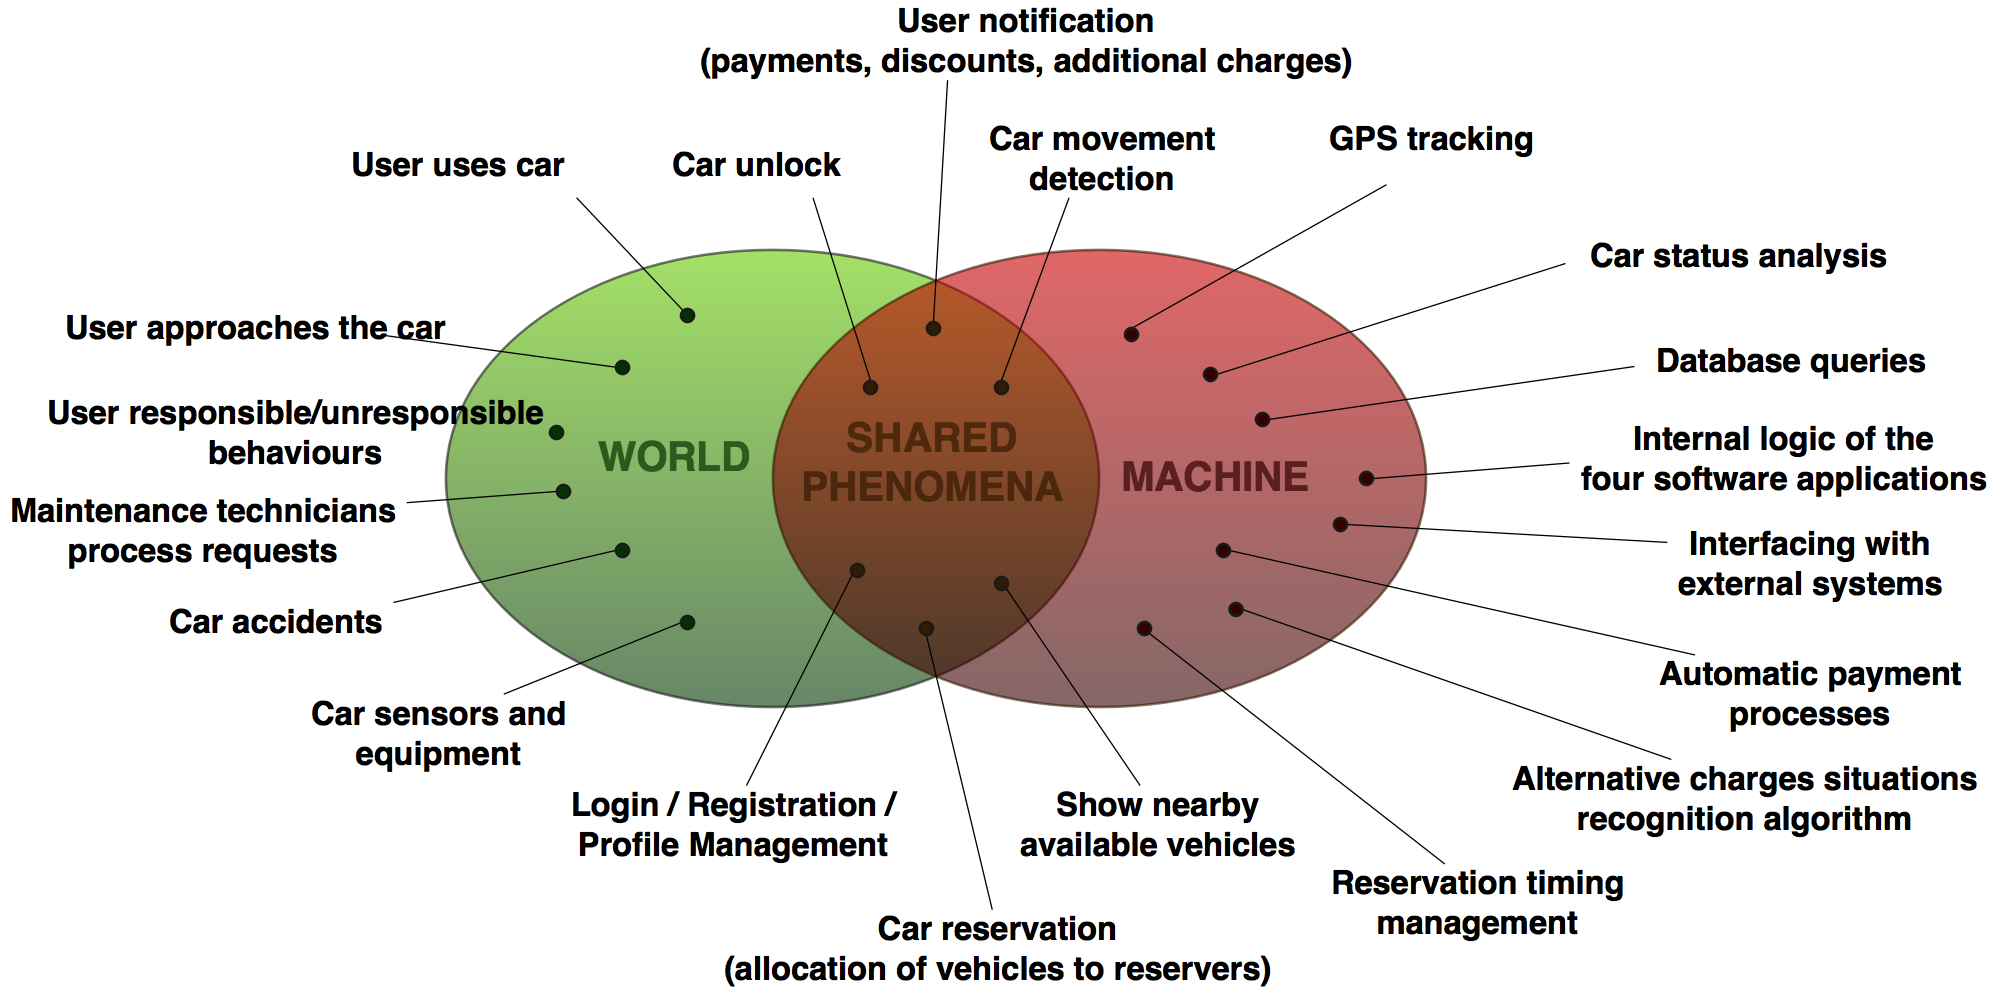
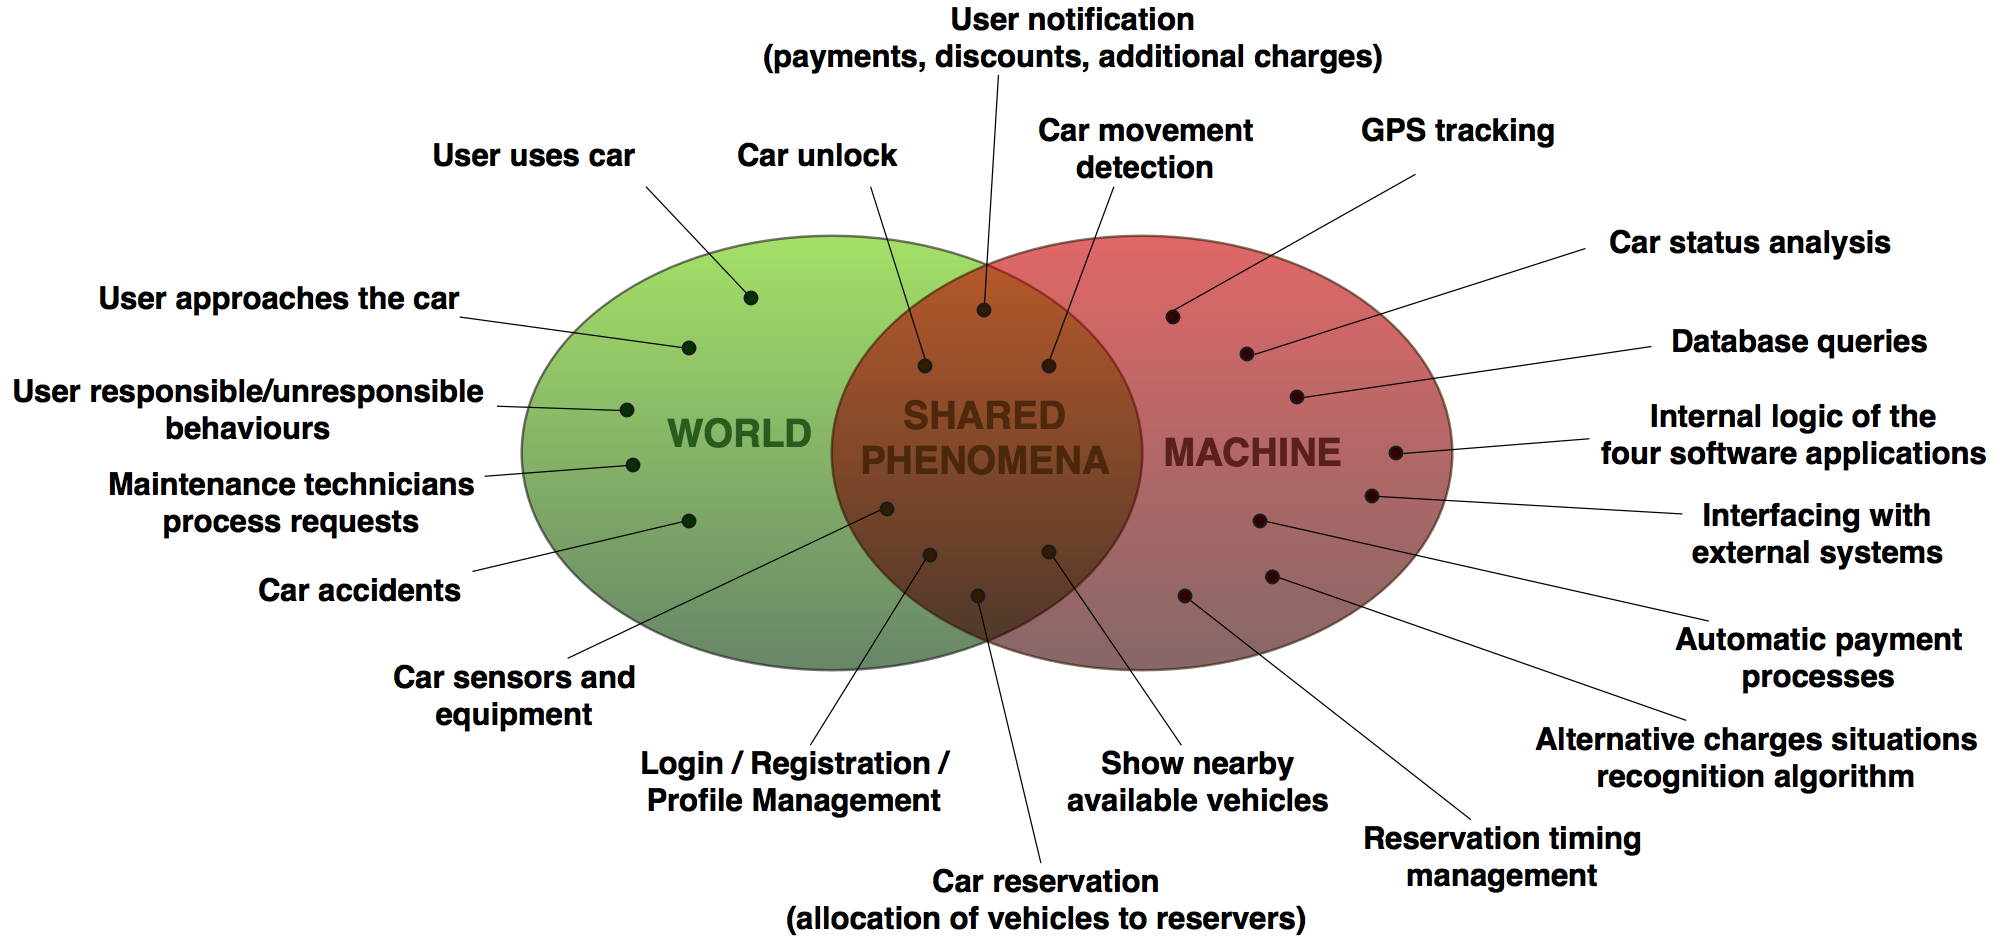
Adds small fix to World and Machine diagram

diff --git a/rasd/appendix.tex b/rasd/appendix.tex
@@ -28,4 +28,5 @@ Here are listed the changes and additions between different versions of the docu
 \item[V3] Added "profile picture" requirement in Section \ref{user_int};
 \item[V3] Added Subsection 2.7 containing information and picture about the World and Machine interpretation of the system-to-be;
 \item[V3] Removed not-so-reasonable domain assumption number 8 from the previous version;
+\item[V3.1] Small fix in World and Machine diagram.
 \end{itemize}

diff --git a/rasd/rasd.tex b/rasd/rasd.tex
@@ -54,7 +54,7 @@
 	\vspace{2cm}
 	\vfill
 	% Bottom of the page
-	{\large Document version: 3\par}
+	{\large Document version: 3.1\par}
 	{\large \today \par}
 \end{titlepage}
 

diff --git a/README.md b/README.md
@@ -2,7 +2,7 @@
 This is the repository of Giovanni Scotti and Marco Trabucchi for the project of the Software Engineering II course attended at Politecnico di Milano.
 
 ## Assignments
-1. **RASD**: [download the latest version here](https://github.com/GiovanniScotti/PowerEnjoy-SEII-Project-Scotti-Trabucchi/tree/master/DELIVERIES/RASD_15012017_v3.pdf)
+1. **RASD**: [download the latest version here](https://github.com/GiovanniScotti/PowerEnjoy-SEII-Project-Scotti-Trabucchi/tree/master/DELIVERIES/RASD_10032017_v3.1.pdf)
 2. **DD**: [download the latest version here](https://github.com/GiovanniScotti/PowerEnjoy-SEII-Project-Scotti-Trabucchi/tree/master/DELIVERIES/DD_15012017_v2.pdf)
 3. **ITPD**: [download the latest version here](https://github.com/GiovanniScotti/PowerEnjoy-SEII-Project-Scotti-Trabucchi/tree/master/DELIVERIES/ITPD_15012017_v1.pdf)
 4. **PPD**: [download the latest version here](https://github.com/GiovanniScotti/PowerEnjoy-SEII-Project-Scotti-Trabucchi/tree/master/DELIVERIES/PPD_22012017_v1.pdf)
